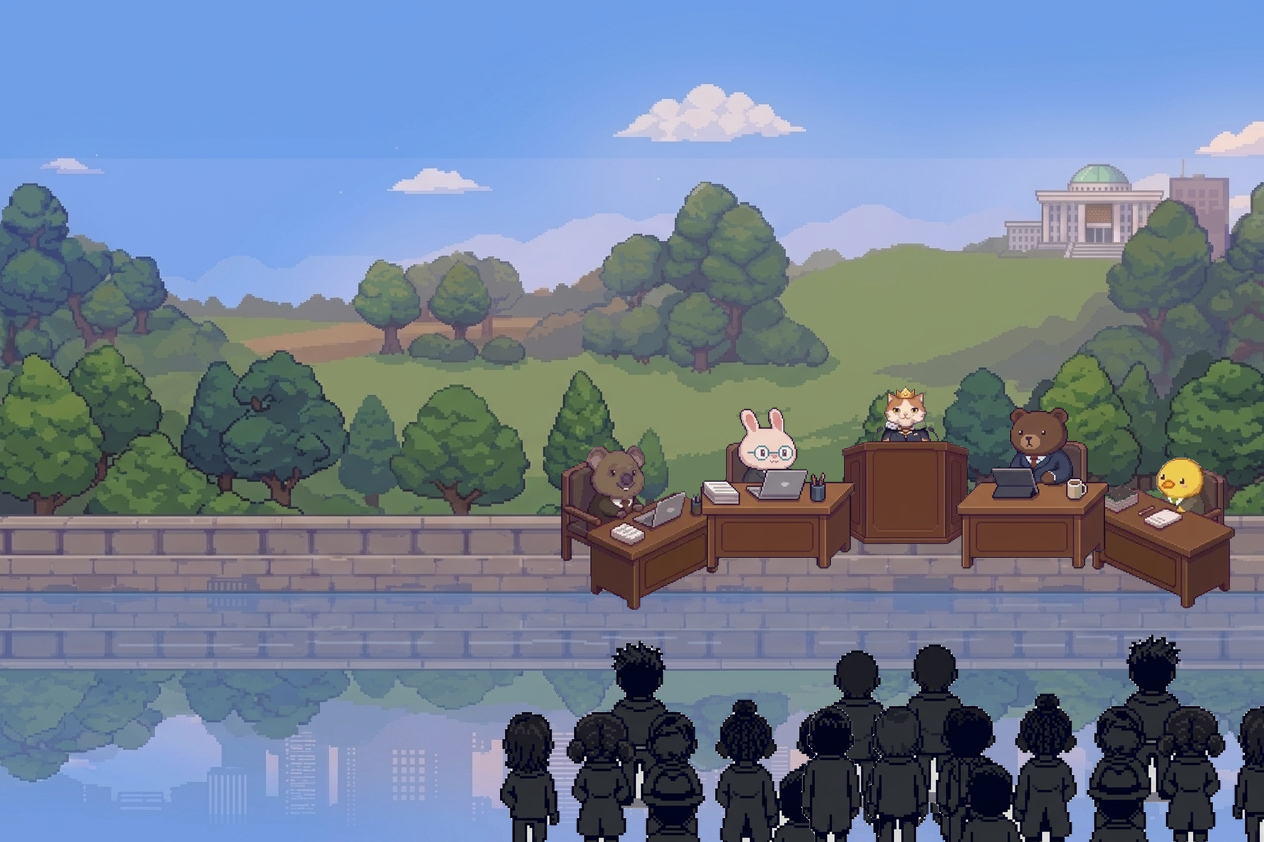
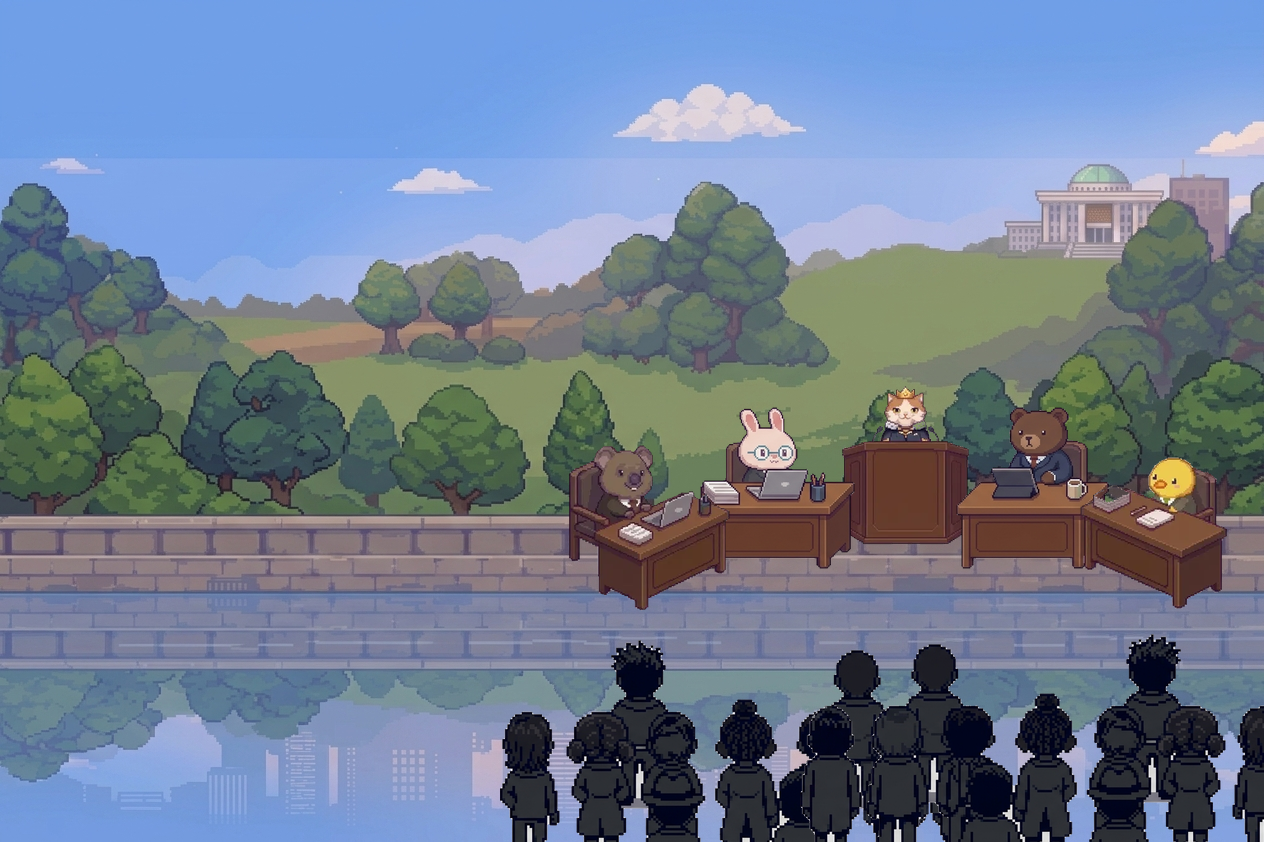
Layer quokka/chick desks in front of rabbit/bear desks
Claude-Session: https://claude.ai/code/session_01FK4EKsW2CMv45MdP3uXWoP

Changed region(s): [[0.432, 0.5249, 0.5862, 0.7411], [0.8331, 0.5249, 0.9873, 0.7411]]

diff --git a/index.html b/index.html
@@ -971,11 +971,11 @@
     const SCENE_W = 1264, SCENE_H = 842;
     const VIEW_TOP = 318, VIEW_ROWS = 425; // 화면에 보여 줄 그림 구간(국무총리 말풍선~관객)
     const SCENE_ITEMS = [
-      { x: 550,  y: 400, w: 122, h: 42, text: "재미도 중요합니다!",         chip: [644, 557, "낭만주의"] },
+      { x: 558,  y: 400, w: 122, h: 42, text: "재미도 중요합니다!",         chip: [652, 557, "낭만주의"] },
       { x: 700,  y: 349, w: 112, h: 52, text: "신중하게 검토해야 합니다!", chip: [772, 523, "신중주의"] },
       { x: 818,  y: 331, w: 168, h: 50, text: "지금부터 국무회의를 시작하겠습니다!", chip: [902, 489, "국무총리"] },
       { x: 992,  y: 363, w: 118, h: 40, text: "예산도 따져 봅시다!",         chip: [1030, 523, "현실주의"] },
-      { x: 1127, y: 418, w: 98,  h: 38, text: "일단 해봅시다!",             chip: [1158, 561, "행동파"] }
+      { x: 1119, y: 418, w: 98,  h: 38, text: "일단 해봅시다!",             chip: [1150, 561, "행동파"] }
     ];
     function layoutScene() {
       const box = document.getElementById("hero-art");
